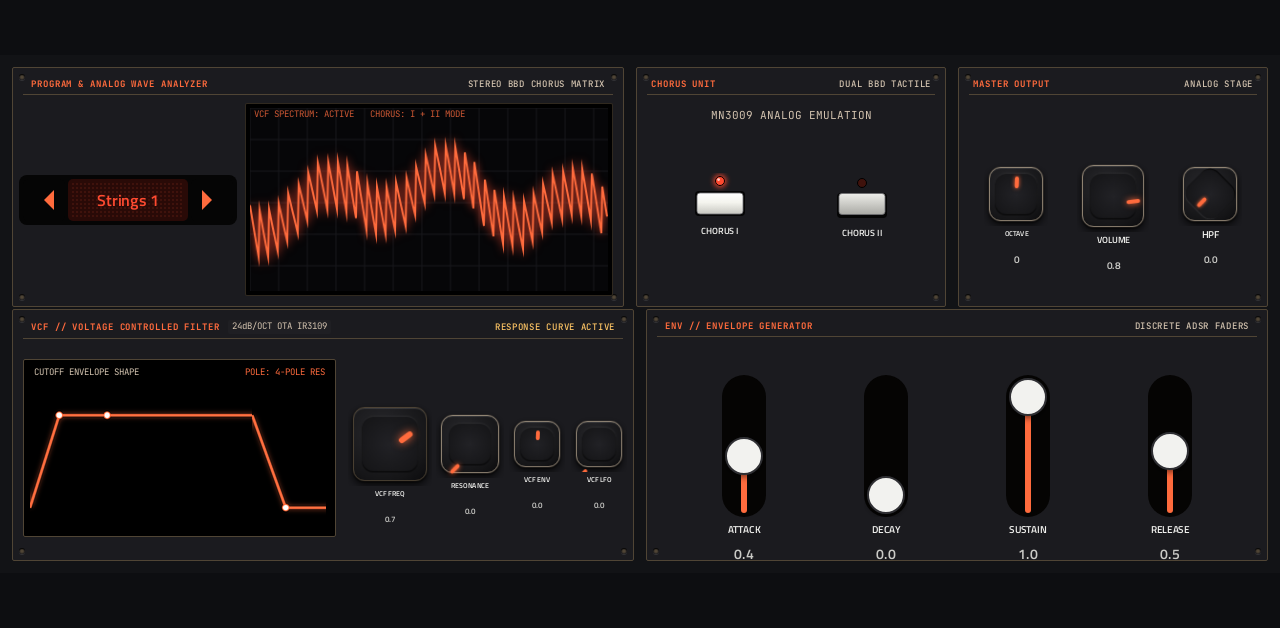
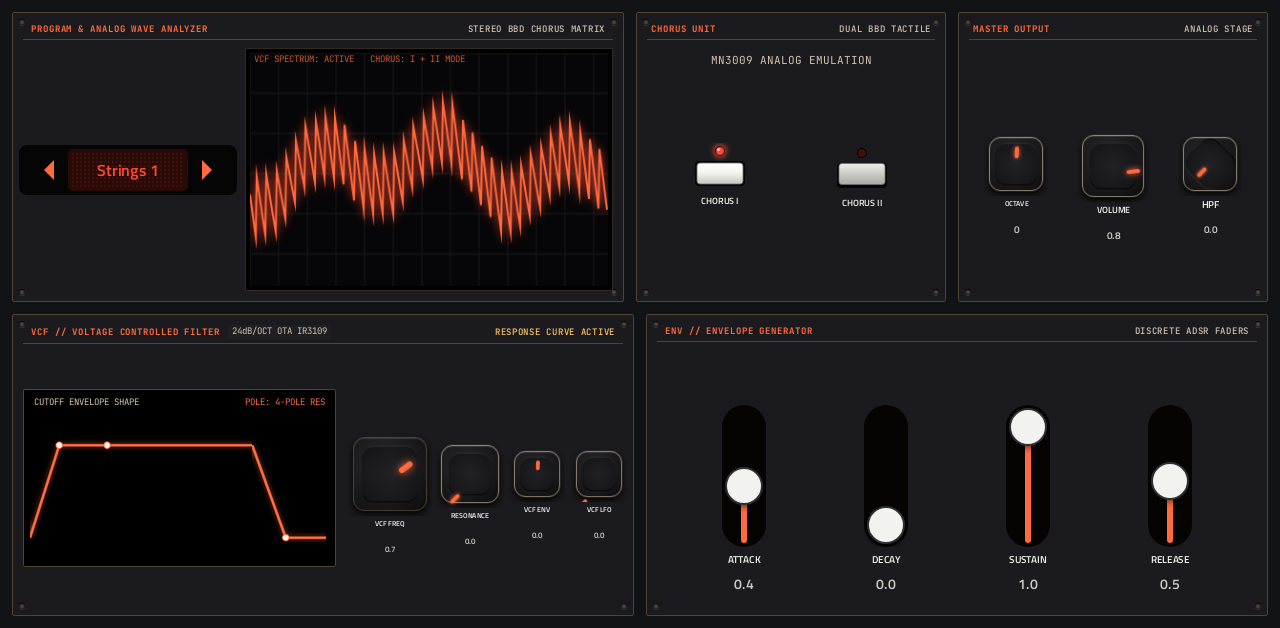
30 screens fill the plugin area (no empty bands above and below)
Rebuilt with the converter's `fill`: 303 (Open303), Aphex, Denis, Elements, Grids, GrooveBank, Hank,
Helm, Hera, Hush One, LibPO32, Marbles (SETUP only), MazeLite, MIDI Player, MonkSynth, Moog
(RaffoSynth: its frame centred), Mr Drums, Mr Hyde, Noisemaker, OB-Xd, PixelWalkers, Plaits, Rampage
(Dual Slope), Rings, Rings FX, SuperArp, Tablor, Verglas, Warps, Wurl. Same controls, parameters and
Q-Link order; only positions moved. Moog's and Noisemaker's hand edits (FILTER switch, BANK, the
shorter scope, design QA moves) carried over. Helm's switch captions now show the parameters' names.

Builds PASSED (offline test), check_skin OK for all 30, screenshots refreshed from the engine's
state. The .so files are the committed ones (only the screens changed). Not on a device yet.

diff --git a/README.md b/README.md
@@ -70,6 +70,9 @@ Use one or the other for this plugin: both register the same plugin (same uid), 
   `src/dsp/hera_plugin.cpp`), which is how the current mpc-vst-plugins names the PRESET menu's entries.
 - Both changes to `src/dsp/hera_plugin.cpp` (this and VOLUME) are in `upstream-changes.diff`, against charlesvestal/schwung-hera
   `255be06` (module v0.1.7).
+- **Full-height screen (2026-10-18)**: the panels fill MPC's 1280 × 628 plugin area. The Stitch conversion used to
+  centre the design at the height it had under its own header and footer (MPC draws its own), which left an empty
+  band above and below.
 
 ## Files
 
